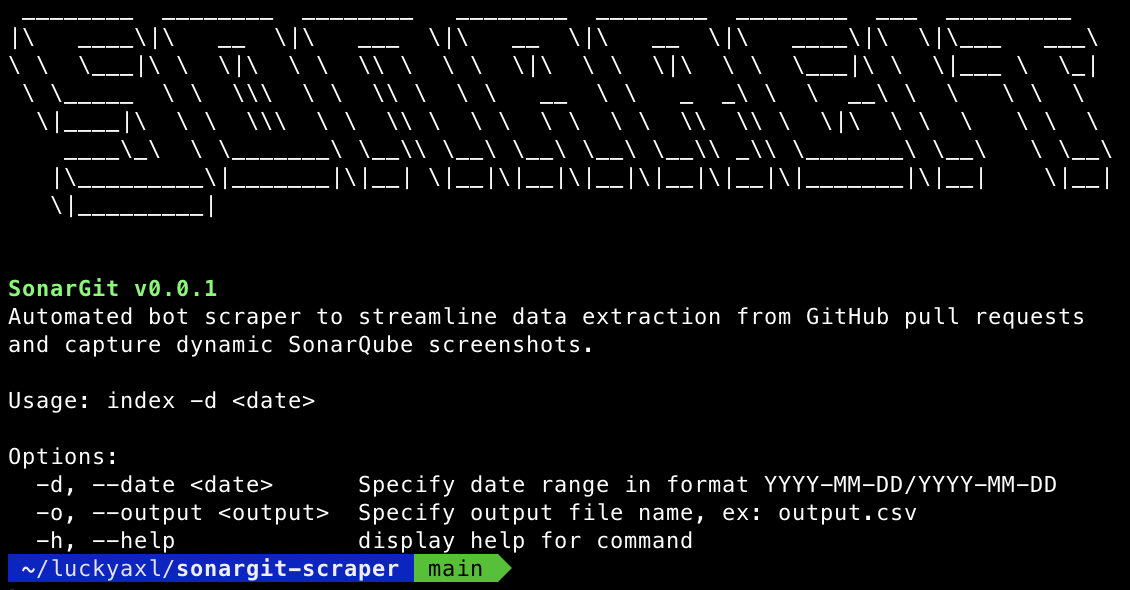
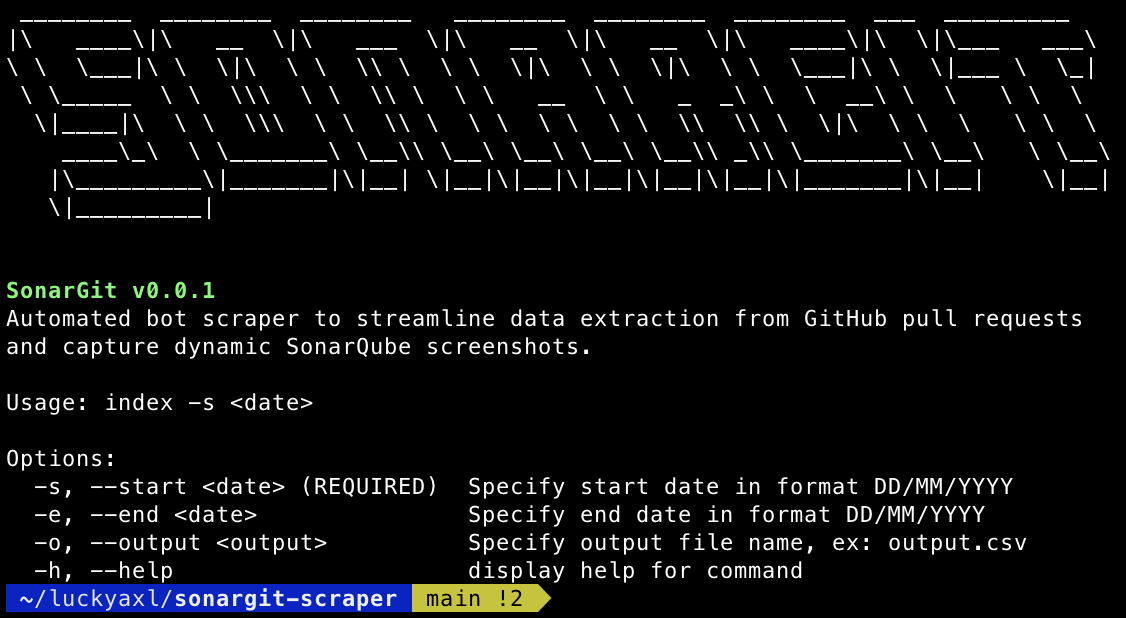
docs: update readme

diff --git a/README.md b/README.md
@@ -17,7 +17,7 @@ Node 18.0 and later.
 ### Example Usage
 
 ```bash
-~$: sonargit -d 2023-10-10/2023-12-30
+~$: sonargit -s 10/10/2023 -e 20/10/2023
 ```
 
 ### Logs
